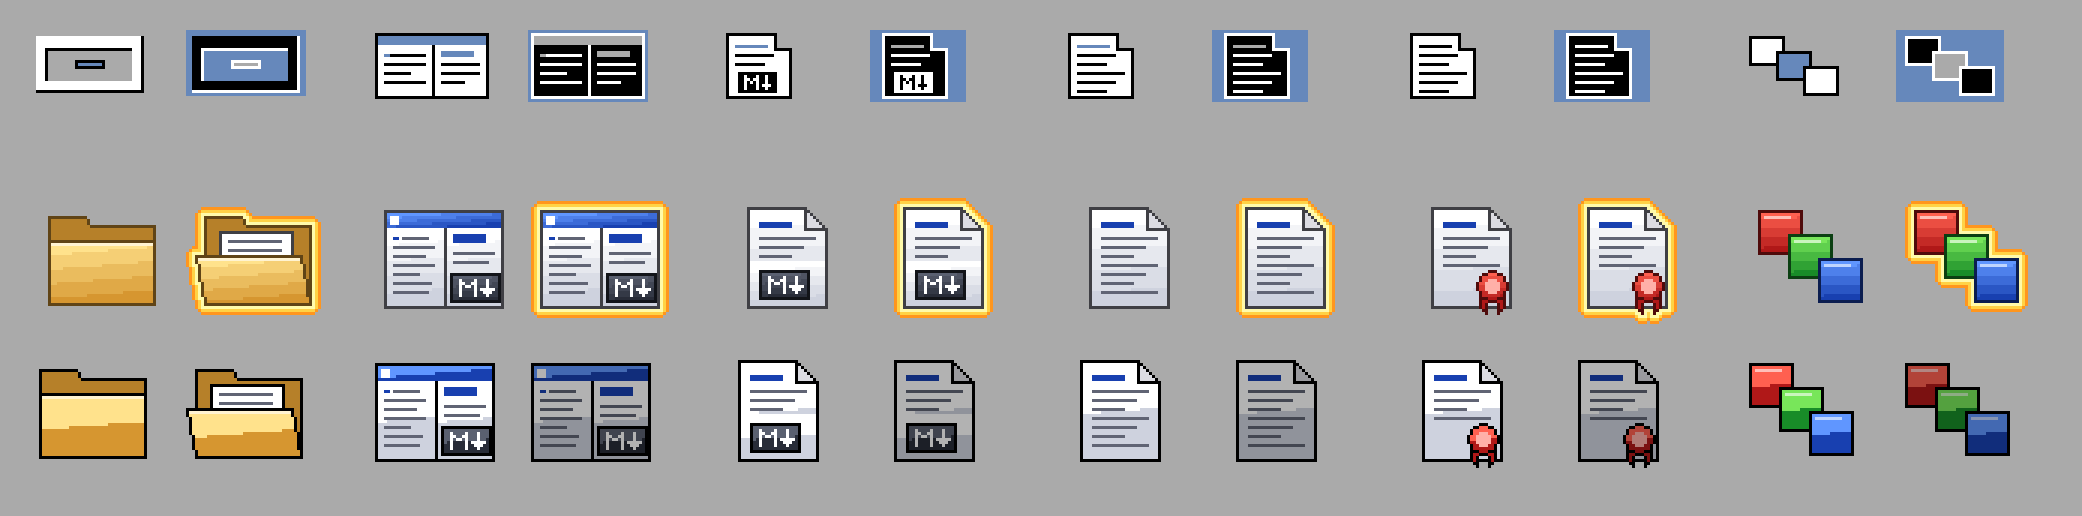
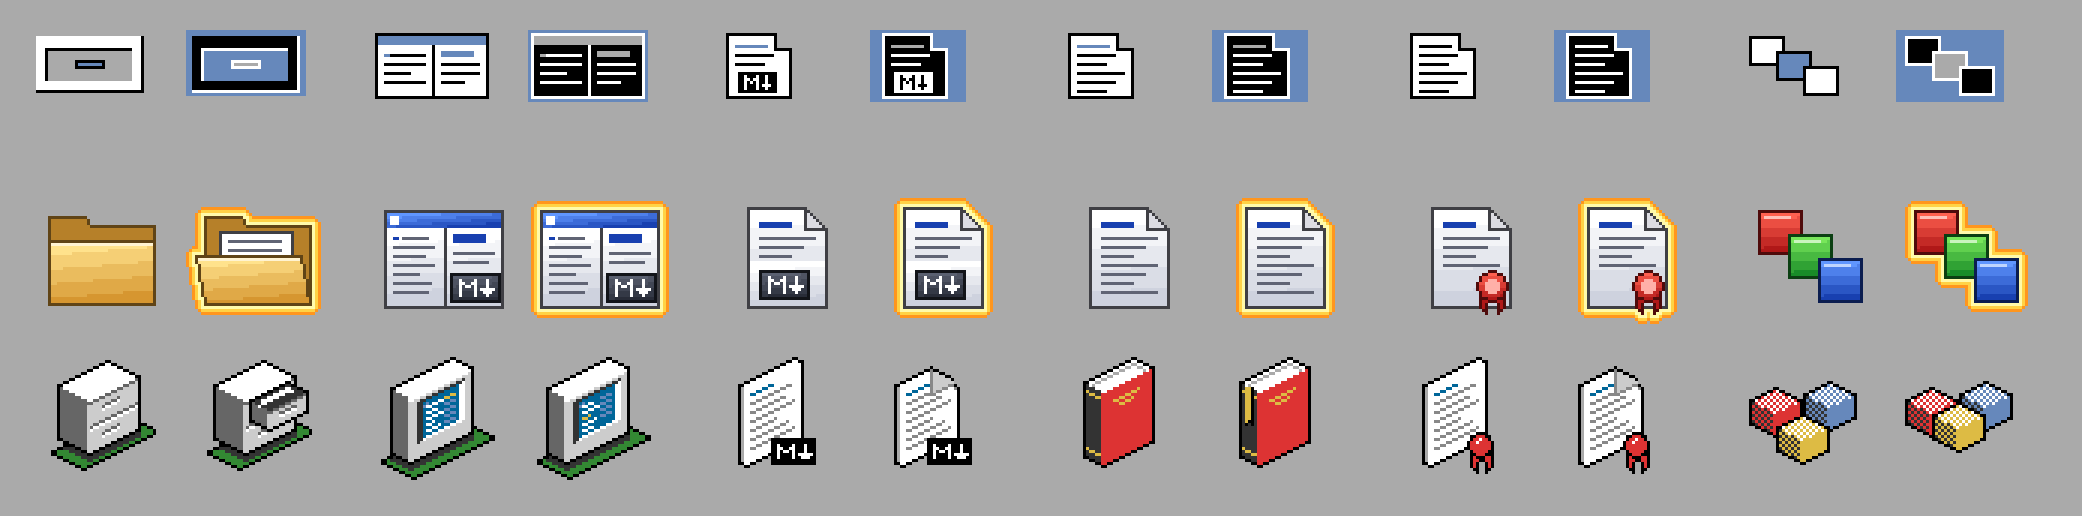
NewIcons in the style of the NewIcons package
The Kickdown monitor and the upright Markdown sheet with its label,
selected: scrolled text, dog ear. html_gadget submodule moved to
2f05ad5 (NewIcons drawing in mkicons.py; also the palette screen and
scrolling changes since 0e11be9).

diff --git a/tools/icons.py b/tools/icons.py
@@ -114,6 +114,48 @@ gi.MOTIFS['kickdown'] = m_kickdown
 gi.MOTIFS['markdown'] = m_markdown
 
 
+# ------------------------------------------------------- NewIcons motifs ---
+
+def n_kickdown(c, sel):
+    """ the monitor with the editor (white lines) and the preview;
+        selected: scrolled on, the cursor line yellow                     """
+    def screen(c, box, u0, u1, t0, t1, sel):
+        mid = (u0 + u1) // 2
+        lines = ((2, 6), (4, 4), (6, 6), (8, 3), (10, 5))
+        if sel:
+            lines = lines[1:] + ((12, 4),)
+        for i, (t, n) in enumerate(lines):
+            box.face_line(c, t0 + t - (2 if sel else 0), u0 + 1, u0 + n,
+                          gi.N_YELLOW if sel and i == 2 else WHITE)
+        if not sel:
+            box.face_line(c, t0 + 2, mid + 2, mid + 5, gi.N_YELLOW)
+        for t in ((2, 4, 6, 8) if sel else (4, 6, 8, 10)):
+            box.face_line(c, t0 + t, mid + 2, u1 - 1, gi.N_LBLUE)
+    gi.n_monitor(c, screen, sel)
+
+
+def n_badge(c, x, y):
+    """ the Markdown mark as a straight label, 15 x 9 """
+    c.rect(x, y, x + 14, y + 8, BLACK)
+    for i in range(5):                        # M
+        c.put(x + 2, y + 2 + i, WHITE)
+        c.put(x + 7, y + 2 + i, WHITE)
+    for dx, dy in ((3, 3), (4, 4), (5, 4), (6, 3)):
+        c.put(x + dx, y + dy, WHITE)
+    c.rect(x + 11, y + 2, x + 11, y + 5, WHITE)     # arrow
+    c.rect(x + 9, y + 5, x + 13, y + 5, WHITE)
+    c.rect(x + 10, y + 6, x + 12, y + 6, WHITE)
+
+
+def n_markdown(c, sel):
+    gi.n_sheet(c, sel)
+    n_badge(c, 19, 28)
+
+
+gi.NI_MOTIFS['kickdown'] = n_kickdown
+gi.NI_MOTIFS['markdown'] = n_markdown
+
+
 # ---------------------------------------------------------------- samples ---
 
 ROLES = ('drawer', 'kickdown', 'markdown', 'readme', 'license', 'tiles')
